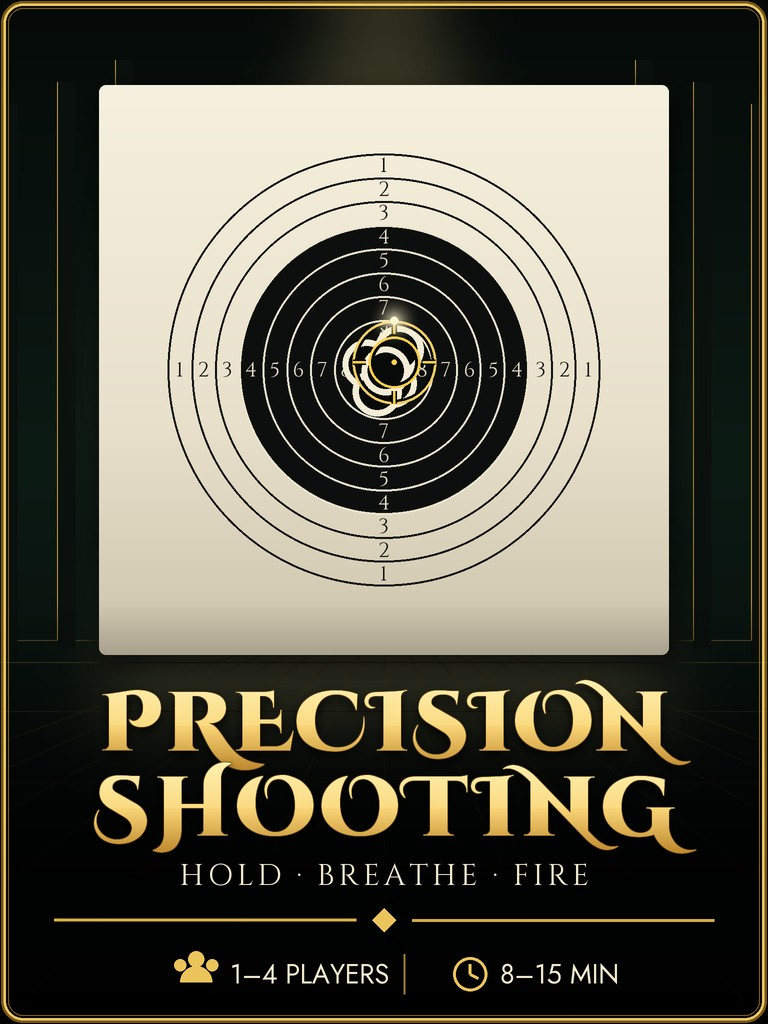
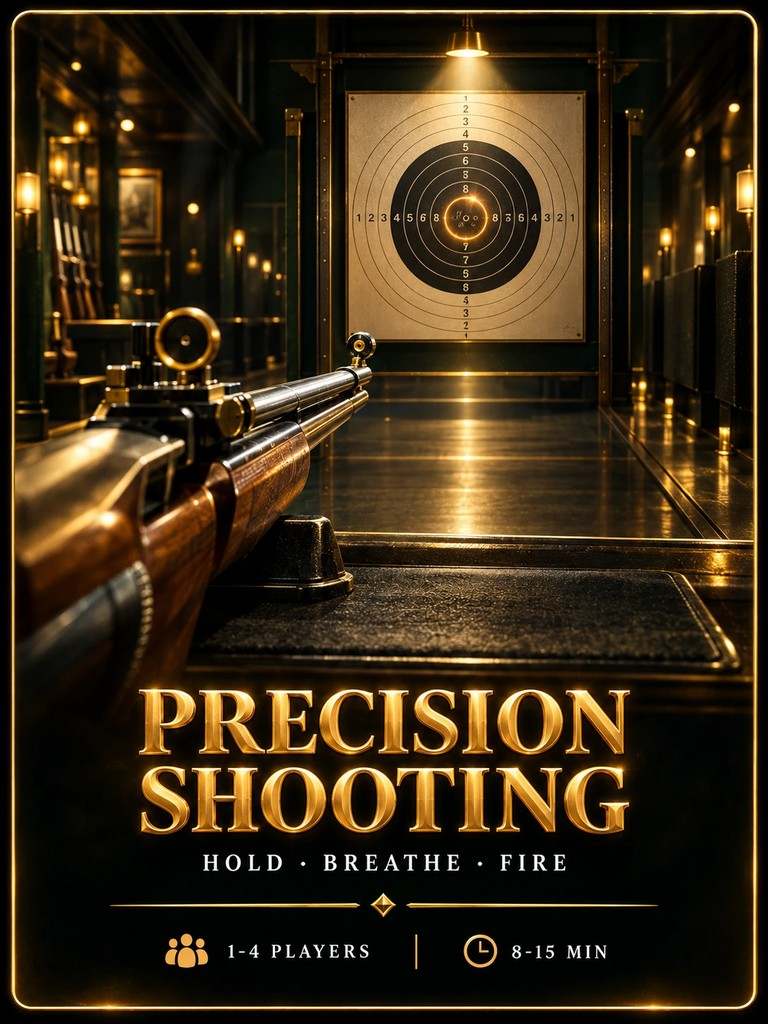
Precision Shooting: the real cover and the Olympic Games room picture; cache v155

diff --git a/sw.js b/sw.js
@@ -3,7 +3,7 @@
 // app shell itself. Multiplayer still needs a live connection (Supabase requests are always
 // passed straight through to the network, never cached), so this is about the shell — the HTML,
 // icons, and manifest — not about playing an online game with no signal.
-const CACHE_NAME = 'our-table-v154';
+const CACHE_NAME = 'our-table-v155';
 // Pictures live in their OWN cache, which a new app version does not throw away: the ~12 MB of covers,
 // room pictures and avatars used to be downloaded again from scratch on every visit (network-first with
 // no-store) and again on every release, so on a slow connection the home screen painted only the top strip
@@ -12,7 +12,7 @@ const CACHE_NAME = 'our-table-v154';
 const ASSET_CACHE = 'our-table-assets-v2';
 // Pictures replaced in place under the same name: dropped from ASSET_CACHE on every activation so the new file is fetched (a few hundred KB;
 // leaving a name in this list is harmless). Without this, devices that had already loaded the old picture kept showing it for ever.
-const REPLACED_ASSETS = ['./assets/games/pinball.jpg','./assets/games/balloonblast.jpg','./assets/games/marksman.jpg','./assets/games/hoopfever.jpg','./assets/rooms/fairground.jpg','./assets/games/blackwater.jpg','./assets/games/airhockey.jpg','./assets/games/pong.jpg','./assets/games/invaders.jpg','./assets/games/pool.jpg','./assets/rooms/arcade.jpg','./assets/icons/icon-192.png','./assets/icons/icon-512.png','./assets/icons/apple-touch-icon.png','./assets/ui/home.jpg','./assets/ui/trophies.jpg','./assets/ui/moments.jpg','./assets/ui/family.jpg','./assets/ui/victory.jpg','./assets/icons/icon-maskable-192.png','./assets/icons/icon-maskable-512.png'];
+const REPLACED_ASSETS = ['./assets/games/precision.jpg','./assets/rooms/olympic.jpg','./assets/games/pinball.jpg','./assets/games/balloonblast.jpg','./assets/games/marksman.jpg','./assets/games/hoopfever.jpg','./assets/rooms/fairground.jpg','./assets/games/blackwater.jpg','./assets/games/airhockey.jpg','./assets/games/pong.jpg','./assets/games/invaders.jpg','./assets/games/pool.jpg','./assets/rooms/arcade.jpg','./assets/icons/icon-192.png','./assets/icons/icon-512.png','./assets/icons/apple-touch-icon.png','./assets/ui/home.jpg','./assets/ui/trophies.jpg','./assets/ui/moments.jpg','./assets/ui/family.jpg','./assets/ui/victory.jpg','./assets/icons/icon-maskable-192.png','./assets/icons/icon-maskable-512.png'];
 const APP_SHELL = [
   './CardTableV17_2fixed.html',
   './manifest.json',
